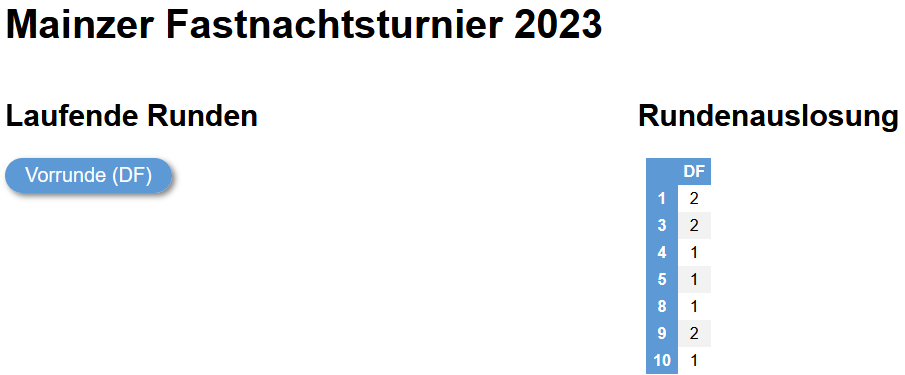
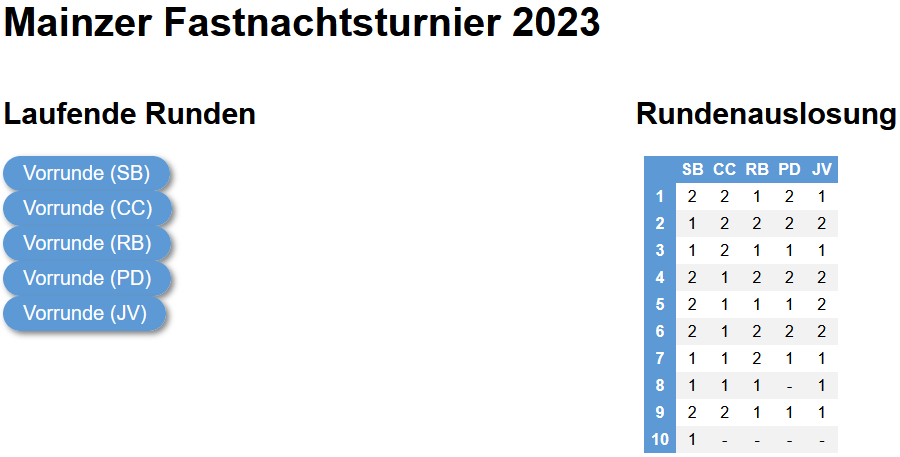
added docs

diff --git a/README.md b/README.md
@@ -1,1 +1,213 @@
 # pydanceweb
+
+This Django app can be used to run (and analyze) dancing competitions.
+
+## Requirements
+
+- ensure that you have python installed (pydanceweb was developped and tested on version 3.9.1)
+- run `pip install -r requirements.txt` in your python environment
+
+## Adjusting the config
+
+This app can be adjusted to the specifics of a dancing competition using the file `data/conf.json` which must be a valid JSON file and must not be moved to another destination. Please note that a sample conf is provided.
+
+It contains the following key value pairs:
+- `"name"`: sets the title of this app displayed on any page
+- `"dances"`: a dictionary in the form `"SOME_ID": "SOME_NAME"` listing all dances that may appear in any section
+- `"sections"`: a dictionary in the form `"SOME_ID": "SOME_NAME"` of all sections (i.e. "subcompetitions")
+- `"dances_per_section"`: a dictionary in the form `"SECTION_ID": ["DANCE_ID_1", ...]` that expresses which dance is danced in which section. Please ensure that every ID is defined as a key in their respective dictionaries. Please note that you may also define a section without dances e.g. if you want to restrict award results to only certain competitors.
+- `"section_groups"`: a dictionary in the form `"SOME_ID": "SOME_NAME"` of all sections that should be grouped in the tournament desk view under the given name as header
+- `"sections_per_group"`: a dictionary in the form `"SECTION_GROUP_ID": ["SECTION_ID_1", ...]` that expresses which sections should be grouped under which header in the tournament desk view. Please ensure that every ID is defined as a key in their respective dictionaries.
+- `"awards"`: an OPTIONAL dictionary in the form `"SOME_ID": "SOME_NAME"` of all additional awards that are calculated on the basis of section results
+- `"sections_per_award"`: an OPTIONAL dictionary in the form `"award_id": [SECTION_ID_OR_RULE, ...]` that defines how the respective award results should be calculated based on section results. Instead of a key from the `sections` dictionary you may also add a "rule" to the list of values. Such a rule must be in the form of a dictionary. There is currently only one rule in the form `"BEST": { "n": SOME_INT, "sections": ["SECTION_ID_1", ...]}` which is interpreted in the way that only the best `SOME_INT` results of the given sections are regarded while worse ones are ignored. Please note that this rule may not be nested! Please also note that competitors that did not compete in all specified sections (or a subset based on the rules) are excluded from the results. Finally, please note that only rule 9 of the skating system (i.e. the sum of the places) will be applied.
+
+## Adding Competitors and Adjudicators
+
+Competitors and adjudicators can currently only be added by replacing the files `data/competitors.csv` and `data/adjudicators.csv`. These files must be separated by `,` and must include a first column without a header that contains the starting numbers as integers (or adjudicators ids that are usually upper case characters). The following columns must have a `SECTION_ID` specified in the conf as header and a cell with a `1` if the competitor competes in the section (or the adjudicator judges it) or a `0` if not.
+
+## Starting the Server
+
+Run `python main/manage.py runserver` to start a local server or `python main/manage.py runserver  0.0.0.0:8000` to start one that can be accessed over the web (the `ALLOWED_HOSTS` from `main/settings.py` are configured in a way that the current IP address is always allowed). 127.0.0.1 will be `YOUR_IP_ADDRESS` in the first case or your actual IP4 address in the latter.
+
+## Using the Tournament Desk View
+
+Open http://`YOUR_IP_ADDRESS`/ftm/desk/ in a browser to access the tournament desk view. Here you can see all sections and awards from your conf enriched by the competitor/adjudicator information:
+
+![c.f. screenshots/desk_0_section_overview.png](screenshots/desk_0_section_overview.png)
+
+Please note that the number of adjudicators will be red if it is invalid (i.e. 0 or an even number).
+
+### Starting a Section
+
+You can start a section by clicking on the button in the section box:
+
+![c.f. screenshots/desk_1_init_section.png](screenshots/desk_1_init_section.png)
+
+You will then be redirected to the views for initiating the first round:
+
+![c.f. screenshots/desk_2_init_first_round.png](screenshots/desk_2_init_first_round.png)
+
+![c.f. screenshots/desk_3_init_round.png](screenshots/desk_3_init_round.png)
+
+The latter view will also be used for preparing any following preliminary rounds (if there are ones). Please note that preparing a round will alter the status of the section as displayed in the tournament desk view (after reloading):
+
+![c.f. screenshots/desk_3_section_status.png](screenshots/desk_3_section_status.png)
+
+### Starting a Round
+
+Clicking on any of the last two buttons leads you to the view for actually starting a round:
+
+![c.f. screenshots/desk_4_start_round.png](screenshots/desk_4_start_round.png)
+
+This separate view enables you to postpone a round e.g. in case you're running multiple sections at a time and you want all final rounds to be danced together and not with a preliminary round of another section.
+
+You will also have to set your callback wish (i.e. the number of competitors that should advance to the following round which equals the number of callback marks adjudicators should set) and whether you want to allow bigger heats. For the latter you will only see options that actually reduce the number of heats.
+
+If you start a round you will get to the heats view which shows you that all competitors are randomnly placed in heats and that the heat sizes will be as balanced as possible with fewer competitors in later heats. Here you will also find the option to move competitors to the last heat of the current round e.g. if they can't be found at the moment but you want to give them the chance to still compete a little later:
+
+![c.f. screenshots/desk_5_heat_overview.png](screenshots/desk_5_heat_overview.png)
+
+Please note that this option will not be available if there is only one heat:
+
+![c.f. screenshots/desk_5_heat_overview_2.png](screenshots/desk_5_heat_overview_2.png)
+
+Please also note that starting a round will again change its status in the tournament desk view:
+
+![c.f. screenshots/desk_5_section_status.png](screenshots/desk_5_section_status.png)
+
+The heat table will be saved to `data/sections/SECTION_ID/ROUND_NO/SECTION_ID_ROUND_NO_heats.csv` and can be edited externally if necessary.
+
+### Analyzing a Round
+
+From the heats view you can access the round view via the top left button (and from there you can get back vice versa):
+
+![c.f. screenshots/desk_6_preliminary_round_view_2.png](screenshots/desk_6_preliminary_round_view_2.png)
+
+In this view you can access the adjudicator views to edit their callback marks (e.g. in case they have problems or in order to print adjudicator sheets) and press the reload button to update the current result table with callbacks marks from adjudicators. Having done so, you can move on to the next round by selecting the number of competitors that should be called back. Please note that this will lead to a final round if noted that way. (A final is every non first round with 6 or less competitors or up to 8 if the 7th and or 8th are tied with the 6th.)
+
+### Handling Final Rounds and Finishing a Section
+
+The view for preparing a final round is similar to the one mentioned above with the only difference that you don't have to specify a callback wish or heat size limit:
+
+![c.f. screenshots/desk_7_start_final_round.png](screenshots/desk_7_start_final_round.png)
+
+The view for a running final round and its analysis is also pretty similar to the one used for preliminary rounds with the exception of including a skating table for each dance of the current round (and a final summary for multi dance sections):
+
+![c.f. screenshots/desk_8_final_round_view_2.png](screenshots/desk_8_final_round_view_2.png)
+
+(c.f. https://www.worlddancesport.org/Rule/Athlete/Competition/Judging-Systems if you're interested in how the skating system works)
+
+If you click on the button to finalize the section you will get to the section results view:
+
+![c.f. screenshots/desk_9_results.png](screenshots/desk_9_results.png)
+
+All skating tables will be saved to  `data/sections/SECTION_ID/ROUND_NO/SECTION_ID_ROUND_NO_DANCE_NO_results.csv`, the final summary to `data/sections/SECTION_ID/ROUND_NO/SECTION_ID_ROUND_NO_results.csv` and a table with places for all competitors (merged from all rounds of the section) to `data/sections/SECTION_ID/results.csv`.
+
+... and the status changes one last time:
+
+![c.f. screenshots/desk_9_section_status.png](screenshots/desk_9_section_status.png)
+
+If you click on this button you will no longer be able to start new rounds but get a more detailed section view:
+
+![c.f. screenshots/desk_10_section_info.png](screenshots/desk_10_section_info.png)
+
+### Handling Additional Awards
+
+If you specified additional awards in the conf you will see additional buttons for them on the bottom of the tournament desk view:
+
+![c.f. screenshots/desk_12_award_results.png](screenshots/desk_12_award_results.png)
+
+Please note that you will only see results if all sections necessary for the calculation of this award are finished.
+
+Each one of those award results table will be saved to `awards/AWARD_ID.csv` and will be updated every time you click on the button.
+
+### Getting a Result Overview
+
+A compact overview over the results of all sections and all awards tabulated so far can be accessed from the bottom most button of the result view:
+
+![c.f. screenshots/desk_14_to_results.png](screenshots/desk_14_to_results.png)
+
+It may look like this:
+
+![c.f. screenshots/desk_15_results.png](screenshots/desk_15_results.png)
+
+This table will be saved to `data/results.csv` and will be updated every time you click on the button.
+
+## Using the Adjudicator View
+
+Open http://`YOUR_IP_ADDRESS`/ftm/judge_`ADJUDICATOR_ID`/ in a browser to access the view for the adjudicator with that id:
+
+![c.f. screenshots/adjudicator_1_round_overview.png](screenshots/adjudicator_1_round_overview.png)
+
+On this landing page you will always get a list of all rounds that are currently running but the only ones the given adjudicators judges.
+
+### Judging Preliminary Rounds
+
+Clicking a button on the adjudicator landing page that is associated with a preliminary round will get you to this view:
+
+![c.f. screenshots/adjudicator_2_heat_view_2.png](screenshots/adjudicator_2_heat_view_2.png)
+
+Here you can see the callback wish in bold on top of a box per heat and the number of selected callback marks on top of the send button. Please note that this number will be red if it does not match the callback wish.
+
+Please also note that adjudicators have to reload this page if competitors are moved to another heat although all heats of the given round are visible at the same time.
+
+Adjudicators may preselect competitors in this view using the right column with grey x marks in case they need to allocate some callback marks at the end of the round as they don't have to allocate them equally over all heats. However, these "preselection marks" will not be saved by clicking the send button.
+
+The marks will be saved to `data/sections/SECTION_ID/ROUND_NO/SECTION_ID_ROUND_NO_DANCE_ID_callback_marks_ADJUDICATOR_ID.json` in the form `{"competitors": [COMPETITOR_TO_BE_CALLED_BACK, ...]}` and can be edited externally if necessary.
+
+Please note that this view will be styled differently if printed using the browser's printing option:
+
+![c.f. screenshots/adjudicator_2_heat_view_print.png](screenshots/adjudicator_2_heat_view_print.png)
+
+After saving the callback marks you will be redirected to the following page from which you can access the overview (or the next dance in case of multi dance sections):
+
+![c.f. screenshots/adjudicator_3_callback_marks_sent.png](screenshots/adjudicator_3_callback_marks_sent.png)
+
+### Judging Final Rounds
+
+Since there are no callback marks but placements in final rounds, the adjudicator view for final rounds looks a little different:
+
+![c.f. screenshots/adjudicator_4_final_round_view_2.png](screenshots/adjudicator_4_final_round_view_2.png)
+
+Please note that the send button will be invisible if the placements are invalid.
+
+Please also note that the styling used for printing looks once again differently:
+
+![c.f. screenshots/adjudicator_4_final_round_view_print.png](screenshots/adjudicator_4_final_round_view_print.png)
+
+The placements will be saved to `data/sections/SECTION_ID/ROUND_NO/SECTION_ID_ROUND_NO_DANCE_ID_final_marks_ADJUDICATOR_ID.json` in the form `COMPETITOR: PLACEMENT` and can be edited externally if necessary.
+
+## Additional Views
+
+### Current Rounds and Heats
+
+All rounds that are currently running will also be listed on the index page (http://`YOUR_IP_ADDRESS`/ftm/). Here, you will always find a "merged" heat table for all these rounds:
+
+![c.f. screenshots/_1_round_overview.png](screenshots/_1_round_overview.png)
+
+Please note that this table will be styled differently if you use your browser's printing option:
+
+![c.f. screenshots/_1_round_overview_print.png](screenshots/_1_round_overview_print.png)
+
+If you click one of the buttons at the left side of the page you will get to a heat view where you can't judge or move competitors:
+
+![c.f. screenshots/_2_heat_overview.png](screenshots/_2_heat_overview.png)
+
+### Results
+
+If there are any finished sections you will also find links to the detailed results view below the current round overview:
+
+![c.f. screenshots/_3_to_results.png](screenshots/_3_to_results.png)
+
+
+## TODOs
+
+While the app is fully functional (especially for single dance sections), there are still some additions that may be implemented in the future:
+
+- make it possible to upload competitor/adjudicator participations in the tournament desk view
+- make it possible to print all adjudicator sheets for a given round at once
+- make it possible to remove the last running round of a section
+- make it possible to redraw the heats from  the tournament desk heat view
+- make it possible to add competitors to running sections
+- add rule 10 and 11 to the tabulation of the final summary
+- make it possible to also use rule 10 for additional awards
